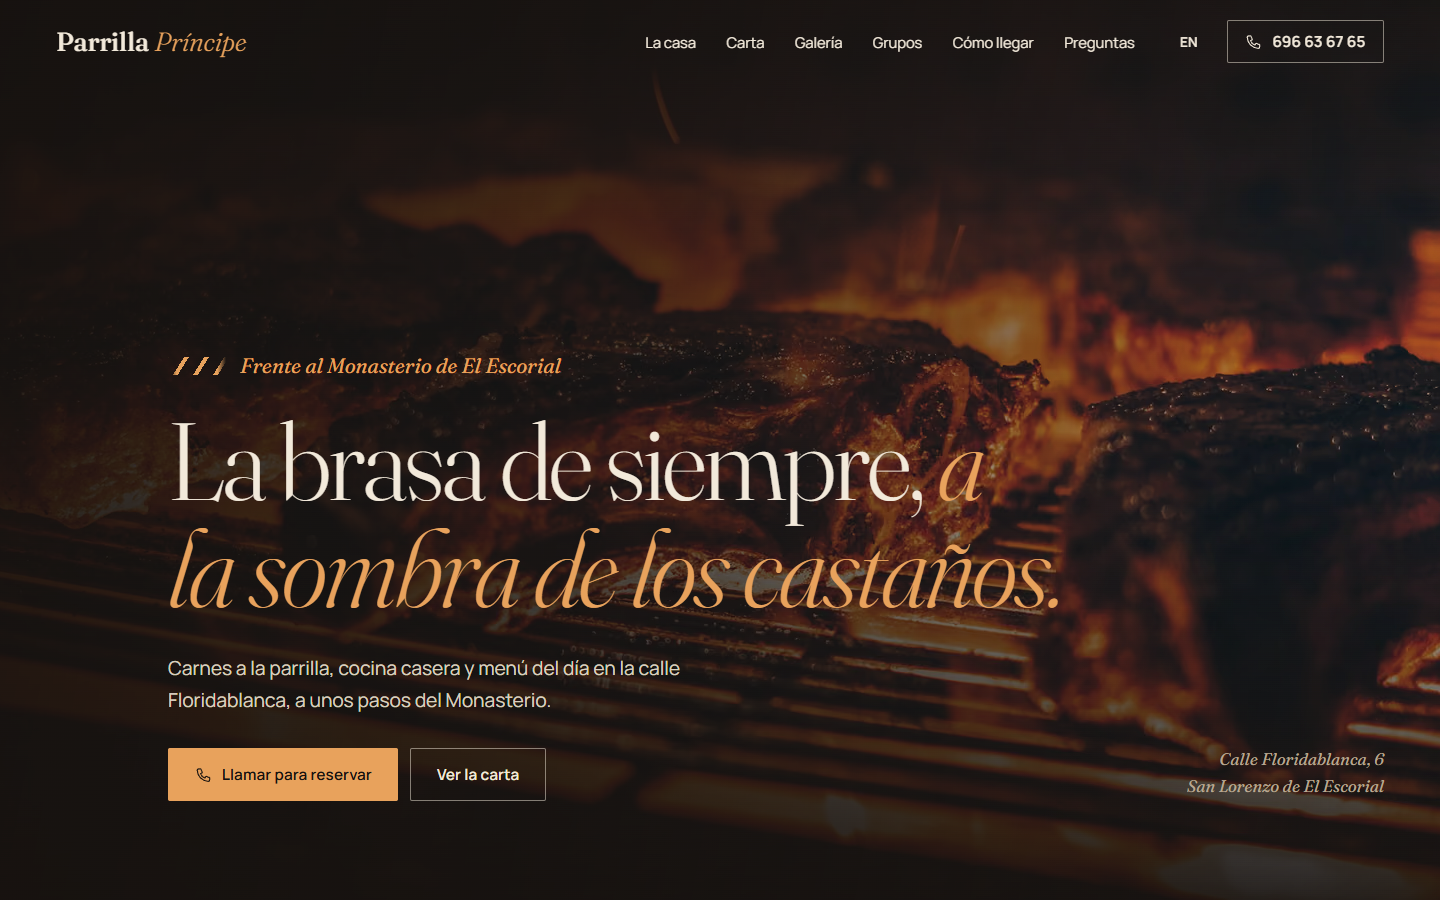
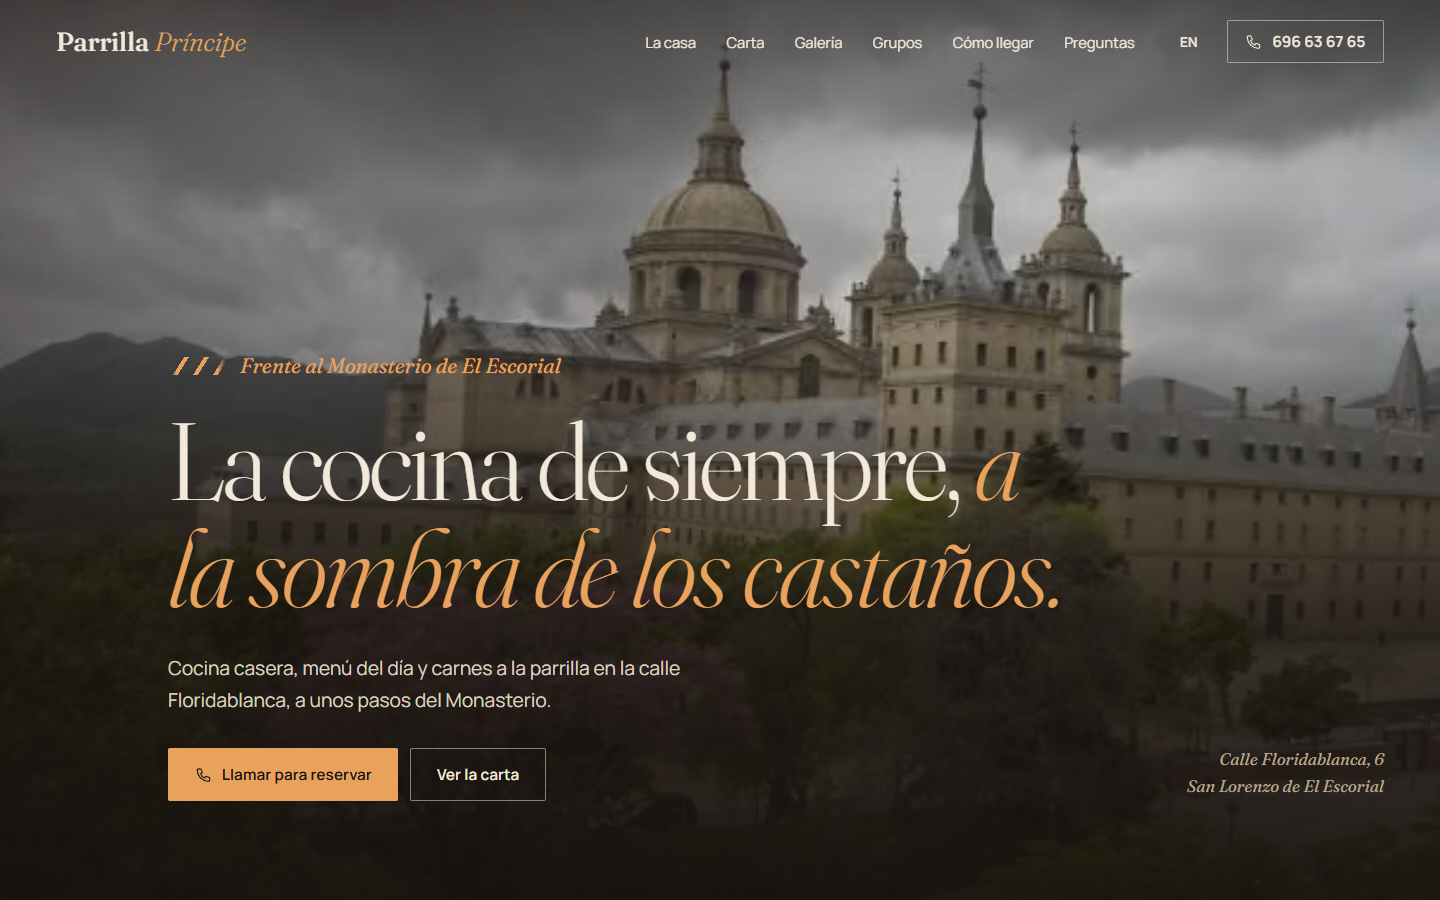
Hero con la foto del Monasterio aportada por el usuario y menos protagonismo a la parrilla en textos, metadatos y JSON-LD

diff --git a/frontend/src/i18n/textos.ts b/frontend/src/i18n/textos.ts
@@ -7,9 +7,9 @@ import type { Lang } from '../data/restaurante';
 
 const es = {
   meta: {
-    titulo: 'Parrilla Príncipe · Parrilla y cocina casera en San Lorenzo de El Escorial',
+    titulo: 'Parrilla Príncipe · Cocina casera junto al Monasterio de El Escorial',
     descripcion:
-      'Restaurante de carnes a la parrilla y cocina casera en la calle Floridablanca, a unos pasos del Monasterio de San Lorenzo de El Escorial. Menú del día y terraza a la sombra de los castaños.',
+      'Restaurante de cocina casera en la calle Floridablanca, a unos pasos del Monasterio de San Lorenzo de El Escorial. Menú del día, carnes a la parrilla y terraza a la sombra de los castaños.',
   },
   nav: {
     historia: 'La casa',
@@ -34,17 +34,17 @@ const es = {
   pendiente: 'Por confirmar',
   hero: {
     antetitulo: 'Frente al Monasterio de El Escorial',
-    titular: 'La brasa de siempre, a la sombra de los castaños.',
+    titular: 'La cocina de siempre, a la sombra de los castaños.',
     enfasisDesde: 4, // a partir de esta palabra, el titular va en cursiva ámbar
     entradilla:
-      'Carnes a la parrilla, cocina casera y menú del día en la calle Floridablanca, a unos pasos del Monasterio.',
-    imagenAlt: 'Carne asándose sobre la parrilla, con las brasas encendidas',
+      'Cocina casera, menú del día y carnes a la parrilla en la calle Floridablanca, a unos pasos del Monasterio.',
+    imagenAlt: 'El Monasterio de El Escorial visto desde lo alto, con árboles en flor en primer plano',
   },
   historia: {
     titulo: 'Una casa de las de siempre',
     p1: 'La Parrilla Príncipe está en la calle Floridablanca, en pleno centro histórico de San Lorenzo, a unos pasos del Real Monasterio. El edificio fue durante años también hotel, con salones para comidas de grupo.',
     p1Pendiente: true,
-    p2: 'Quien viene suele volver por lo mismo: la carne a la parrilla, la cocina casera, un menú del día con mucho donde elegir y un trato cercano, pendiente de cada mesa.',
+    p2: 'Quien viene suele volver por lo mismo: la cocina casera, un menú del día con mucho donde elegir, la carne a la parrilla y un trato cercano, pendiente de cada mesa.',
     cita: 'Un trato y un ambiente de otros tiempos.',
     citaAutor: 'paquito, en Tripadvisor (septiembre de 2026)',
     huerta:
@@ -60,7 +60,7 @@ const es = {
   carta: {
     titulo: 'La carta',
     intro:
-      'Parrilla, guisos y cocina casera, con postres hechos en casa. Pulsa un plato para ver sus detalles y alérgenos.',
+      'Cocina casera: guisos, pescados, carnes a la parrilla y postres hechos en casa. Pulsa un plato para ver sus detalles y alérgenos.',
     provisional:
       'Carta provisional con los platos que más citan los clientes. Precios y alérgenos, pendientes de la carta oficial.',
     filtros: 'Filtrar',
@@ -139,7 +139,7 @@ const es = {
     lista: [
       {
         p: '¿Dónde está la Parrilla Príncipe?',
-        r: 'La Parrilla Príncipe es un restaurante de carnes a la parrilla y cocina casera en la calle Floridablanca, 6, en el centro histórico de San Lorenzo de El Escorial (Madrid), a unos pasos del Real Monasterio.',
+        r: 'La Parrilla Príncipe es un restaurante de cocina casera y carnes a la parrilla en la calle Floridablanca, 6, en el centro histórico de San Lorenzo de El Escorial (Madrid), a unos pasos del Real Monasterio.',
       },
       {
         p: '¿Hace falta reservar?',
@@ -200,7 +200,7 @@ const es = {
     redes: 'Síguenos',
   },
   error404: {
-    titulo: 'Esta página se ha quedado en la brasa',
+    titulo: 'Esta página no está en la carta',
     texto: 'La dirección que buscas no existe o ha cambiado. Desde el inicio puedes ver la carta, el horario y cómo llegar.',
     volver: 'Volver al inicio',
   },
@@ -210,9 +210,9 @@ type Textos = typeof es;
 
 const en: Textos = {
   meta: {
-    titulo: 'Parrilla Príncipe · Grill and home cooking in San Lorenzo de El Escorial',
+    titulo: 'Parrilla Príncipe · Home cooking by the Monastery of El Escorial',
     descripcion:
-      'Grill restaurant with home cooking on Calle Floridablanca, a few steps from the Monastery of San Lorenzo de El Escorial, near Madrid. Set lunch menu and a terrace shaded by chestnut trees.',
+      'Home-cooking restaurant on Calle Floridablanca, a few steps from the Monastery of San Lorenzo de El Escorial, near Madrid. Set lunch menu, grilled meat and a terrace shaded by chestnut trees.',
   },
   nav: {
     historia: 'The house',
@@ -237,17 +237,17 @@ const en: Textos = {
   pendiente: 'To be confirmed',
   hero: {
     antetitulo: 'Facing the Monastery of El Escorial',
-    titular: 'Grilled the old way, in the shade of the chestnut trees.',
-    enfasisDesde: 4,
+    titular: 'Cooking of the old school, in the shade of the chestnut trees.',
+    enfasisDesde: 5,
     entradilla:
-      'Meat from the grill, home cooking and a set lunch menu on Calle Floridablanca, a few steps from the Monastery.',
-    imagenAlt: 'Meat cooking on the grill over glowing embers',
+      'Home cooking, a set lunch menu and grilled meat on Calle Floridablanca, a few steps from the Monastery.',
+    imagenAlt: 'The Monastery of El Escorial seen from above, with trees in bloom in the foreground',
   },
   historia: {
     titulo: 'A house of the old school',
     p1: 'Parrilla Príncipe is on Calle Floridablanca, in the historic centre of San Lorenzo, a few steps from the Royal Monastery. For years the building was also a hotel, with rooms for group meals.',
     p1Pendiente: true,
-    p2: 'Guests tend to come back for the same things: meat from the grill, home cooking, a set menu with plenty of choice and friendly service that looks after every table.',
+    p2: 'Guests tend to come back for the same things: home cooking, a set menu with plenty of choice, meat from the grill and friendly service that looks after every table.',
     cita: 'Service and an atmosphere from another time.',
     citaAutor: 'paquito, on Tripadvisor (September 2026; translated from Spanish)',
     huerta:
@@ -263,7 +263,7 @@ const en: Textos = {
   carta: {
     titulo: 'The menu',
     intro:
-      'Grilled meat, stews and home cooking, with desserts made in-house. Tap a dish to see its details and allergens.',
+      'Home cooking: stews, fish, grilled meat and desserts made in-house. Tap a dish to see its details and allergens.',
     provisional:
       'Provisional menu with the dishes guests mention most. Prices and allergens will follow with the official menu.',
     filtros: 'Filter',
@@ -342,7 +342,7 @@ const en: Textos = {
     lista: [
       {
         p: 'Where is Parrilla Príncipe?',
-        r: 'Parrilla Príncipe is a grill restaurant serving home cooking at Calle Floridablanca 6, in the historic centre of San Lorenzo de El Escorial (Madrid), a few steps from the Royal Monastery.',
+        r: 'Parrilla Príncipe is a home-cooking restaurant, also known for its grilled meat, at Calle Floridablanca 6, in the historic centre of San Lorenzo de El Escorial (Madrid), a few steps from the Royal Monastery.',
       },
       {
         p: 'Do I need to book?',
@@ -403,7 +403,7 @@ const en: Textos = {
     redes: 'Follow us',
   },
   error404: {
-    titulo: 'This page has been left on the grill',
+    titulo: 'This page is not on the menu',
     texto: 'The address you are looking for does not exist or has changed. From the home page you can see the menu, opening hours and directions.',
     volver: 'Back to home',
   },

diff --git a/frontend/src/data/imagenes.ts b/frontend/src/data/imagenes.ts
@@ -2,17 +2,17 @@
  * Imágenes de la web y sus créditos.
  * Mientras no lleguen las fotos del restaurante se usan fotos de Unsplash
  * (licencia Unsplash: uso libre; se cita al autor en el pie) solo para
- * ambiente —brasas, Monasterio—, nunca para hacer pasar un plato por suyo.
+ * ambiente (Monasterio, la parrilla en Grupos), nunca para hacer pasar un plato por suyo.
  * Lo propio del restaurante (platos, terraza, comedor) va como marcador «Foto pendiente».
  * La galería se lee de src/contenido/galeria.json; sus fotos van en src/assets/img/galeria/.
  */
 import type { ImageMetadata } from 'astro';
 import { texto, type Texto } from './restaurante';
 import galeriaJson from '../contenido/galeria.json';
-import parrillaBrasas from '../assets/img/parrilla-brasas.jpg';
-import fuegoParrilla from '../assets/img/fuego-parrilla.jpg';
 import pinzasParrilla from '../assets/img/pinzas-parrilla.jpg';
 import monasterioCupula from '../assets/img/monasterio-cupula.jpg';
+// Aportada por el usuario el 30/09/2026 (604×453). [VERIFICAR] autoría y permiso; pedir el original en más resolución.
+import monasterioVista from '../assets/img/monasterio-vista.jpg';
 import monasterioTorre from '../assets/img/galeria/monasterio-torre.jpg';
 import monasterioFachada from '../assets/img/galeria/monasterio-fachada.jpg';
 
@@ -31,8 +31,15 @@ const unsplash = (autor: string, id: string): Credito => ({
 });
 
 export const fotos = {
-  parrillaBrasas: { src: parrillaBrasas, credito: unsplash('Emerson Vieira', 'RO6Ke69Szhg') },
-  fuegoParrilla: { src: fuegoParrilla, credito: unsplash('iulian aghei', 'q_xW-2ICvfA') },
+  monasterioVista: {
+    src: monasterioVista,
+    credito: {
+      autor: 'Vista del Monasterio: foto aportada, autoría por confirmar',
+      licencia: 'Uso con permiso',
+      licenciaUrl: '',
+      origen: '',
+    },
+  },
   pinzasParrilla: { src: pinzasParrilla, credito: unsplash('Paul Hermann', 'jeiqzOgwwKU') },
   monasterioCupula: { src: monasterioCupula, credito: unsplash('Hernan Gonzalez', '2jBlzNmelIw') },
   monasterioTorre: { src: monasterioTorre, credito: unsplash('Fernando Mola-Davis', 'Z939vzXyUvU') },

diff --git a/frontend/src/pages/llms.txt.ts b/frontend/src/pages/llms.txt.ts
@@ -32,7 +32,7 @@ export const GET: APIRoute = ({ site }) => {
 
   const cuerpo = `# ${r.nombre}
 
-> ${r.nombre} es un restaurante de carnes a la parrilla y cocina casera en ${d.localidad} (${d.provincia}, España), en ${d.calle}, a unos pasos del Real Monasterio de El Escorial. Tiene menú del día entre semana y una terraza a la sombra de grandes castaños. Las reservas se hacen por teléfono (${r.telefono.visible}). ${platoCasa} ${menuDia} ${horario} Carta: ${platos}. Alérgenos: consultar al personal o por teléfono antes de la visita.
+> ${r.nombre} es un restaurante de cocina casera, con carnes a la parrilla, en ${d.localidad} (${d.provincia}, España), en ${d.calle}, a unos pasos del Real Monasterio de El Escorial. Tiene menú del día entre semana y una terraza a la sombra de grandes castaños. Las reservas se hacen por teléfono (${r.telefono.visible}). ${platoCasa} ${menuDia} ${horario} Carta: ${platos}. Alérgenos: consultar al personal o por teléfono antes de la visita.
 
 ## Web
 

diff --git a/docs/estado.md b/docs/estado.md
@@ -47,3 +47,10 @@ Nombre oficial · teléfono que se publica (hay tres) · horario (¿cenas?) · p
 1. Enviar al dueño `docs/cuestionario-dueno.md` y la URL de la vista previa.
 2. Con sus respuestas: meter los datos (o que los meta él en el panel), activar el panel en producción y seguir la checklist de lanzamiento de `docs/seo-geo.md` §7 (dominio, `PUBLIC_INDEXAR`, Search Console, Bing, IndexNow y unificar el NAP).
 3. Recomendado: abrir una sesión nueva de Claude Code en esta carpeta, porque `preview_start` lee el `.claude/launch.json` de la carpeta de la sesión.
+
+## Cambios tras el lanzamiento de la vista previa (30/09/2026)
+- Petición del usuario: el hero pasa a la **foto del Monasterio que aportó el usuario** (`frontend/src/assets/img/monasterio-vista.jpg`, 604×453, **[VERIFICAR] autoría y permiso; pedir el original en más resolución**) y se quitan las ascuas.
+- Menos peso a la parrilla: «el nombre dice parrilla, pero no es solo parrilla».
+  - Nuevo titular: «La cocina de siempre, a la sombra de los castaños».
+  - Cocina casera y menú del día por delante en los textos, en los metadatos, en el JSON-LD y en llms.txt.
+  - Fuera las fotos de brasas: el plato de la casa usa de fondo la piedra del Monasterio, y la parrilla solo aparece en Grupos y en la carta.
